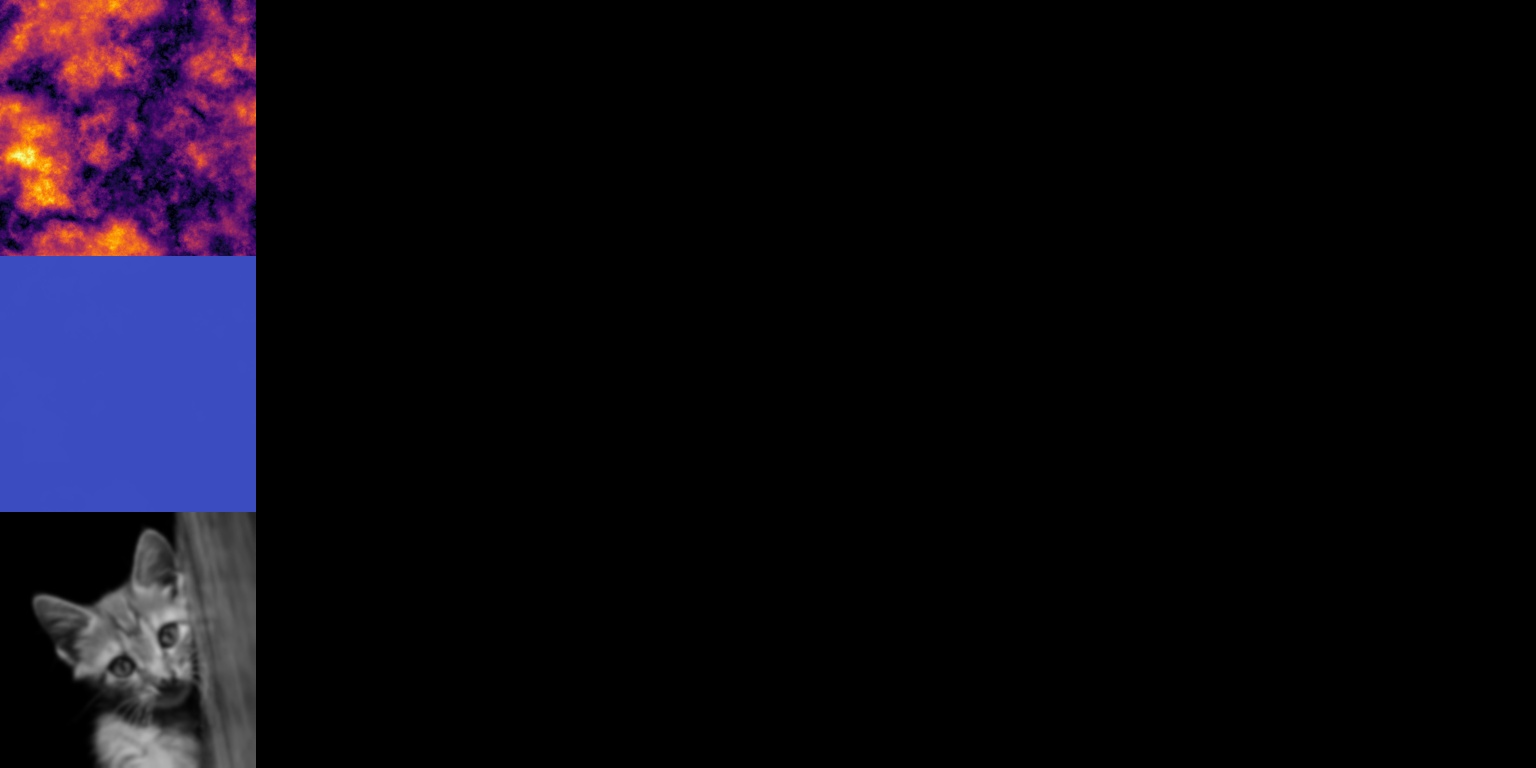
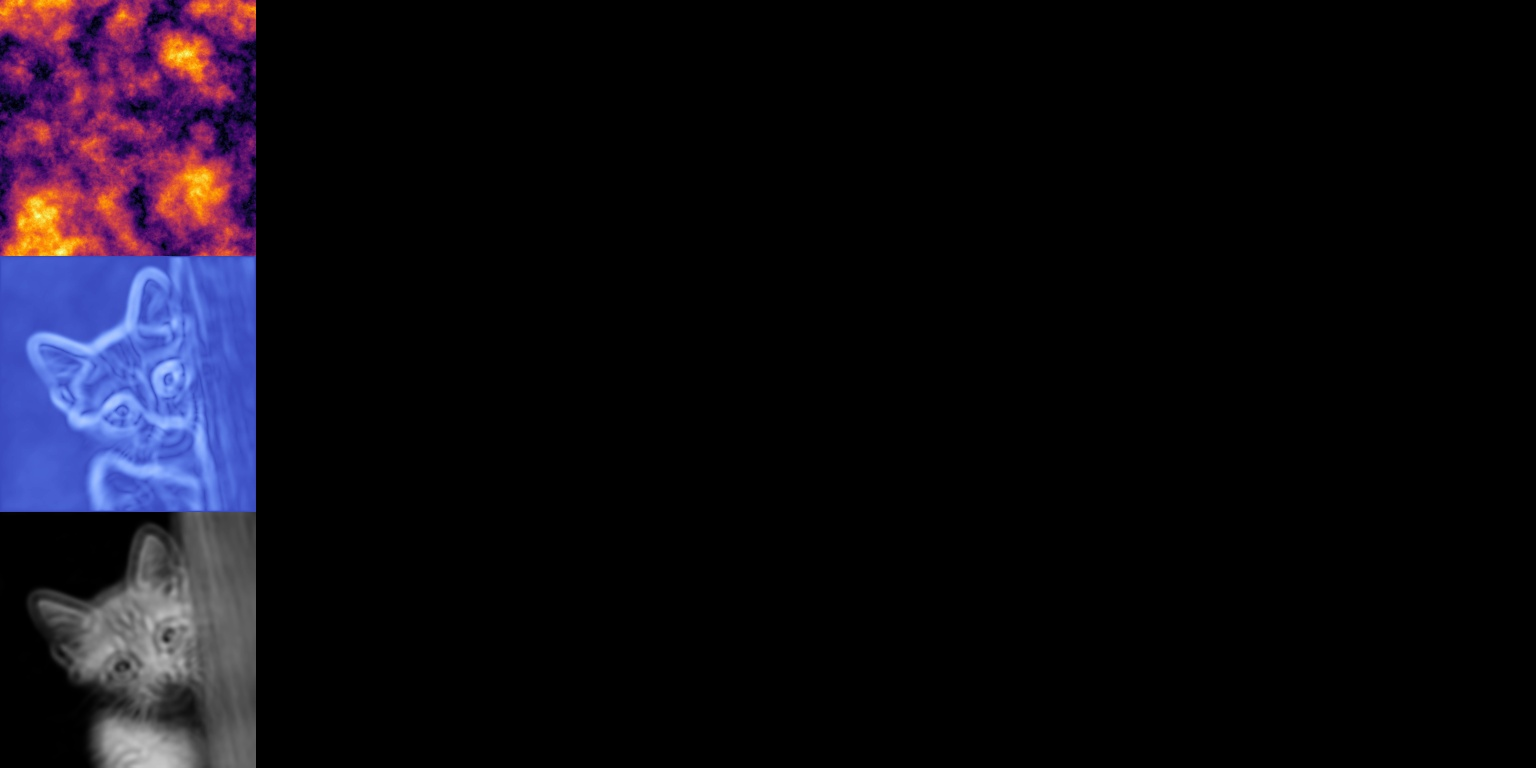
working_merge

Changed region(s): [[0.0, 0.0, 0.1875, 1.0]]

diff --git a/numerical_solvers/runners/taichi_lbm_NS_picture_diffuser.py b/numerical_solvers/runners/taichi_lbm_NS_picture_diffuser.py
@@ -95,9 +95,8 @@ if __name__ == '__main__':
         spectralTurbulenceGenerator
         )
     
-    # solver.init(np_gray_image) 
-
-
+    solver.init(np_gray_image) 
+    
 
     ######################################################################################################### TODO Code with Michal's renderer
 
